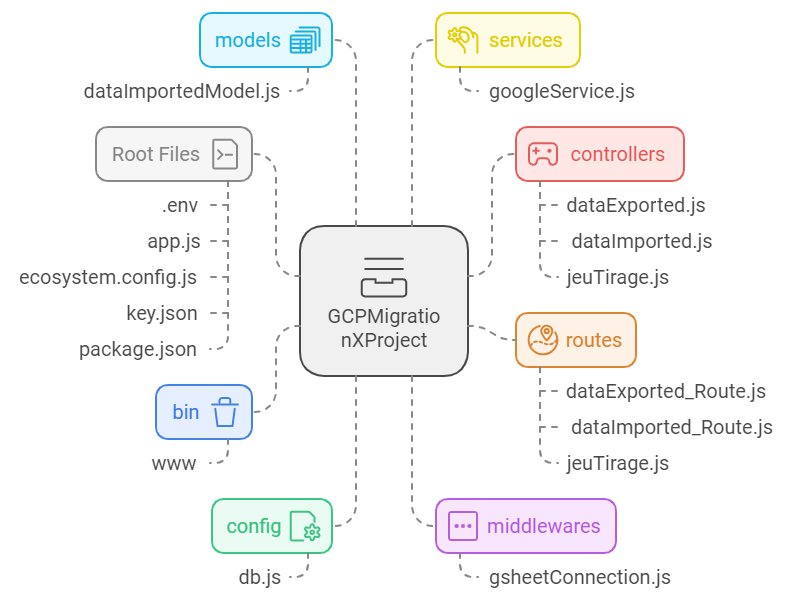
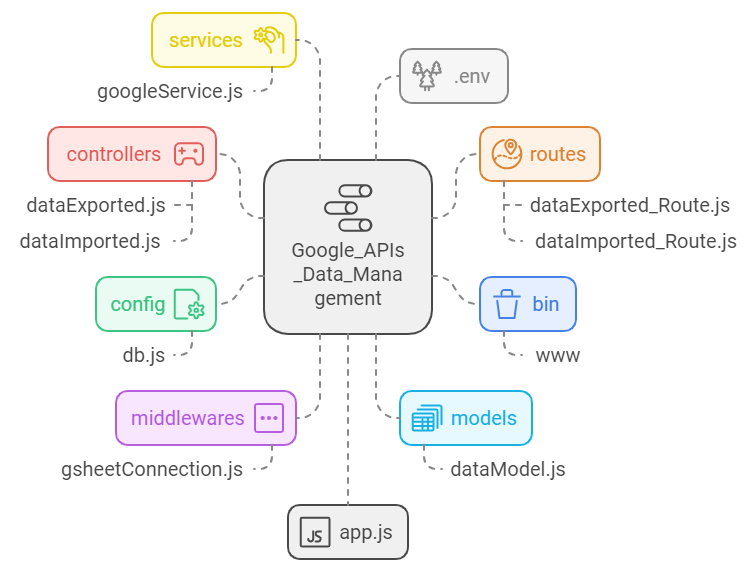
pulling

diff --git a/ecosystem.config.js b/ecosystem.config.js
@@ -1,7 +1,7 @@
 module.exports = {
     apps: [
       {
-        name: 'projxgsheetmigration',
+        name: 'google_apis_data_management',
         script: 'bin/www',
         instances: 'max', // or specify the number of instances
         exec_mode: 'cluster',

diff --git a/README.md b/README.md
@@ -1,4 +1,5 @@
-# GCPMigrationXProject
+# Google_APIs_Data_Management
+
 
 This project is a Node.js-based web application that automates the process of fetching, processing, and storing data from Google Sheets into a Microsoft SQL Server database. It enables users to efficiently upload files to Google Drive and perform various data management operations by seamlessly integrating with the Google Sheets API and Google Drive API. The application features custom middleware for authentication, data retrieval, and SQL data insertion.
 
@@ -62,11 +63,11 @@ The SSIS package is executed via a SQL Agent. Results and status codes are retur
 
 1. Clone the repository:
    ```
-   git clone https://github.com/your-username/GCPMigrationXProject.git
+   git clone https://github.com/WassimSlim21/Google_APIs_Data_Management.git
    ```
 2. Navigate to the project directory:
    ```
-   cd GCPMigrationXProject
+   cd google_apis_data_management
    ```
 3. Install dependencies:
    ```
@@ -91,7 +92,7 @@ The SSIS package is executed via a SQL Agent. Results and status codes are retur
 ## Project Structure
 
 ```
-GCPMigrationXProject/
+Google_APIs_Data_Management/
 │
 ├── bin/
 │   └── www                 # Server startup script
@@ -100,7 +101,6 @@ GCPMigrationXProject/
 ├── controllers/
 │   ├── dataExported.js     # Controller for data export operations
 │   ├── dataImported.js     # Controller for data import operations
-│   └── jeuTirage.js        # Controller for game rules operations
 ├── middlewares/
 │   └── gsheetConnection.js # Middleware for Google Sheets authentication
 ├── models/
@@ -108,7 +108,6 @@ GCPMigrationXProject/
 ├── routes/
 │   ├── dataExported_Route.js # Routes for data export operations
 │   ├── dataImported_Route.js # Routes for data import operations
-│   └── jeuTirage.js          # Routes for game rules operations
 ├── services/
 │   └── googleService.js    # Google API related services
 ├── .env                    # Environment variables
